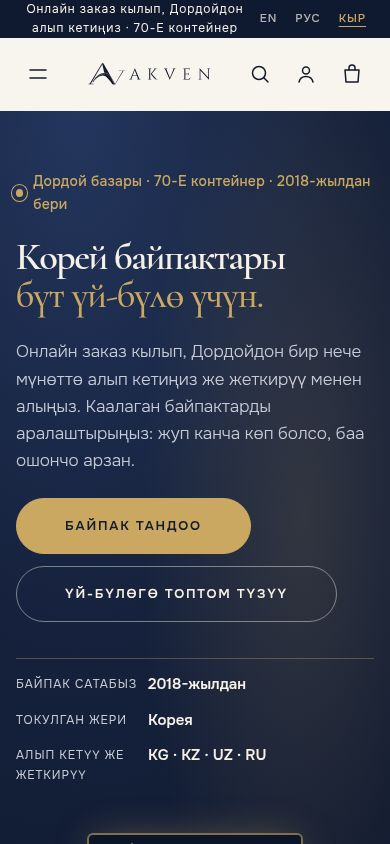
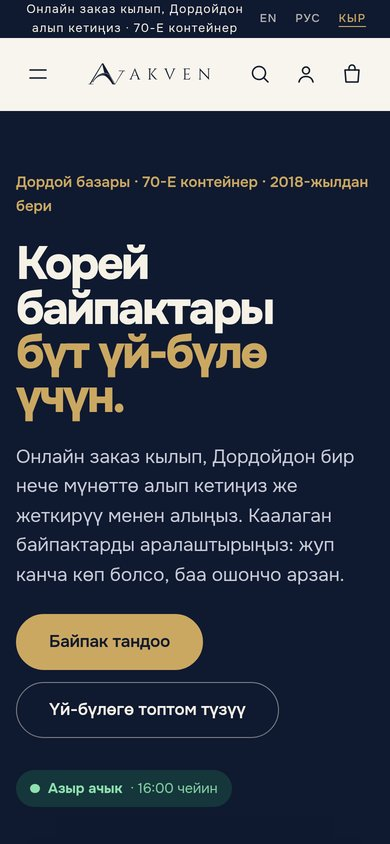
Update docs and screenshots

diff --git a/frontend/src/i18n/ky.ts b/frontend/src/i18n/ky.ts
@@ -36,7 +36,7 @@ const shop: Partial<Record<MessageKey, string>> = {
   "visit.container": "контейнер",
 
   "hero.title1": "Корей байпактары",
-  "hero.title2": "бүт үй-бүлө үчүн.",
+  "hero.title2": "бүт үй‑бүлө үчүн.",
   "hero.lead": "Онлайн заказ кылып, Дордойдон бир нече мүнөттө алып кетиңиз же жеткирүү менен алыңыз. Каалаган байпактарды аралаштырыңыз: заказ {n} жуптан башталат, жуп канча көп болсо, баа ошончо арзан.",
   "hero.leadOne": "Онлайн заказ кылып, Дордойдон бир нече мүнөттө алып кетиңиз же жеткирүү менен алыңыз. Каалаган байпактарды аралаштырыңыз: жуп канча көп болсо, баа ошончо арзан.",
 

diff --git a/docs/brand.md b/docs/brand.md
@@ -1,8 +1,9 @@
 # AKVEN brand and design system
 
-Elite and modern, in navy and gold: ivory pages keep the shop calm, navy carries the brand moments (the top bar, the
-hero, the quality panel, the footer) and gold is kept for detail and savings. Two Kyrgyz ornaments appear only where
-they mean something. The living reference is the style-guide page of the frontend (`/styleguide` with `npm run dev`);
+Plain and direct, after Wise and Bombas: one typeface with heavy, tight headings, flat blocks of colour, sentence-case
+labels and no decoration that does not carry meaning. Ivory pages keep the shop calm, navy carries the brand moments
+(the top bar, the hero, the footer) and gold is kept for the logo and savings. The Kyrgyz patterns live on the socks
+themselves (oimo, shyrdak) and in one band at the top of the footer. The living reference is the style-guide page of the frontend (`/styleguide` with `npm run dev`);
 screenshots are in [`docs/design/`](design/) and double as thesis figures.
 
 ## The mark
@@ -38,7 +39,7 @@ use the `<Logo>` component (`variant="full" | "stacked" | "mark"`), which takes 
 | `--ink`, `--ink-2`, `--ink-3` | navy ink `#121A2C`, slate greys | cream, warm greys | text and primary buttons |
 | `--accent` | gold `#CBA862` | `#D4B373` | the gold button, highlights, ornaments |
 | `--accent-ink` | dark gold `#7E5F1E` | gold | gold used as text: eyebrows, savings |
-| `--black`, `--black-deep`, `--on-black` | navy `#16223D`, `#0F1930`, cream | same | the top bar, hero, quality panel and footer, navy in both themes |
+| `--black`, `--black-deep`, `--on-black` | navy `#16223D`, `#0F1930`, cream | same | the top bar, hero, wholesale and route panels and footer, navy in both themes |
 | `--tint-1` to `--tint-6` | mist, oat, blush, sage, lilac, sand | dark versions | soft backdrops behind product photos, one per card in turn |
 | `--warning` | amber | light amber | "only a few left" |
 | `--ai` | lilac-purple | light lilac | the negotiator's proposal |
@@ -49,57 +50,62 @@ Changing a colour is done in `src/styles/tokens.css` only.
 
 ## Type
 
-Two families, both self-hosted with Latin, Cyrillic and Cyrillic Extended, so Russian and Kyrgyz (ң ө ү) render in the
-same faces as English:
+One family, **Onest**, self-hosted with Latin, Cyrillic and Cyrillic Extended, so Russian and Kyrgyz (ң ө ү) render in
+the same face as English:
 
-- **Cormorant Garamond** for headings: a refined serif, set large, with its italic in gold for emphasis
-  ("Korean socks *for the whole family*"). Numbers use lining figures so "70-E" and prices stand straight.
-- **Onest** for everything else: text, buttons, forms, prices (tabular figures so they line up).
+- **Headings** in Onest 800, set large and tight (letter-spacing about −0.04em), the way Wise sets its headlines.
+  Emphasis is colour (gold on navy, dark gold on ivory), never italics.
+- **Text, buttons, forms and prices** in Onest 400 to 700; prices use tabular figures so they line up.
 
-Buttons are pills with small spaced capitals; on hover a second colour sweeps in from the left and the label changes
-colour with it, so it keeps its contrast throughout. Fonts are tokens (`--font-display`, `--font-sans`, `--font-mono`).
+Buttons are pills with a sentence-case label; labels over headings are plain words, not spaced-out capitals. Fonts are
+tokens (`--font-display`, `--font-sans`, `--font-mono`), so a face can change in one place. An earlier version set
+headings in Cormorant Garamond with gold italics; it read as a luxury template rather than a family stall, and was
+dropped.
 
 ## Ornaments
 
-- **Oimo band**, a chain of rhombuses: the shelf the hero socks stand on, and the top edge of the footer.
-- **Kochkor muyuz**, ram's horns: the divider before the family's story, and the footer rule.
+- **Oimo band**, a chain of rhombuses: the top edge of the footer.
+- **The oimo and shyrdak patterns knitted into socks**: the Heritage line's designs, drawn on the socks themselves.
 
-- **The oimo band knitted into a sock**: the Heritage line's pattern, drawn on the socks themselves.
-
-The two page ornaments are in `frontend/src/brand/Ornaments.tsx` and take their colour from the surrounding text.
+The footer band is in `frontend/src/brand/Ornaments.tsx` and takes its colour from the surrounding text.
 
 ## The drawn sock
 
 Until real photos exist, drawn socks stand in for product photography. One drawing (`src/brand/sockDrawing.ts`)
 serves both the shop (`SockArt.tsx`) and the product images (`npm run art`), so a sock looks the same in the hero, on a
 card and on its page. It has knit texture, a ribbed cuff, a contrast heel and toe and soft shading, five heights
-(no-show to knee-high, all drawn on the same leg so they line up), fifteen patterns (rib, pinstripe, stripes,
-argyle, dots, hearts, snowflakes, oimo, bear, dino, compression, sparkle, ...) and extras: five toes, a grip sole, a
-lace frill, brushed yarn. Every product has two images: the sock, and the pair (or the open gift box). The second
+(no-show to knee-high, all drawn on the same leg so they line up), forty-one patterns (rib, pinstripe, stripes,
+argyle, checks, gingham, houndstooth, zigzag, fair isle, cable knit, camo, leopard, tie-dye, ombre, colour block,
+cherries, lemons, daisies, stars, moons, a night skyline, the Ala-Too mountains, the oimo and shyrdak ornaments, cat,
+bunny, bear and dino faces, paws, football, rainbow, pixel hearts, ...) and extras: five toes, a grip sole, a lace frill,
+brushed yarn, a pom-pom heel. The demo catalogue's second collection (`scripts/collection-2.mjs`) is one list that
+drives both its images (`npm run art`) and its database seed (`npm run seed`). Every product has two images: the sock, and the pair (or the open gift box). The second
 image shows when a card is hovered. Image URLs are data in the database, so photographs replace the drawings one by
 one.
 
 ## The home page
 
-Built around the family's real stall, container 70-E at Dordoi, so it could not belong to another shop:
+Ordered by the questions a visitor has: what does it cost, what is there, why here, and then the shop's own tools.
 
-| Scene | What it shows |
+| Section | What it shows |
 |---|---|
-| Container 70-E | The steel doors, embossed with the mark, swing open on a rail of socks that sway and lean away when the pointer passes; the container's number is stencilled on a plate on the frame |
-| Three ways to shop | Why the shop is online: families, shops (wholesale) and companies (gift boxes), each with its own path |
-| The family planner | Add each person, their shoe size and pairs; the sock size comes from the size chart and the price step from the ladder; the list can be sent in WhatsApp or Telegram |
-| The band | Every kind of sock the stall carries, moving slowly; it stops on hover |
+| The hero | A flat navy block with the headline and a live price calculator: pairs, for whom, the price of a pair today (the middle price of the real shelf), the bulk discount, the total and how many more pairs reach the next step |
+| The washing line | The drawn socks pegged on a rope across the page, drifting and swaying, leaning away when the pointer passes |
+| Shop by family member | Four flat colour tiles: men, women, kids, gift boxes |
 | The shelf | The newest socks, switchable between men, women, kids and gift boxes without leaving the page |
-| The fitting | A leg with a ruler; pick a height and the sock is pulled up to it |
-| The box | Tap socks into a box and watch the step reached on the real price ladder (`/api/pricing`) |
-| The calculator | "Ask for your price" the Dordoi way: the seller types the price and the shop's stamp checks it |
+| The facts | Big figures from the shop's own data (designs on the shelf, the top discount, since 2018, four countries) and the three ordering steps |
+| The family planner | Add each person, their shoe size and pairs; the sock size comes from the size chart and the price step from the ladder; the list can be sent in WhatsApp or Telegram |
+| Ask for your price | The negotiation the Dordoi way: the seller types the price and the shop's stamp checks it |
 | The gift calendar | Days to 23 February, 8 March, Nooruz, the first day of school and New Year, with the gift boxes |
-| The way to 70-E | A drawn route from the city to Dordoi-Junhai, passage 8, container 70-E, and every contact as a card that lights up in its channel's colour |
+| Shops and companies | Two blocks: wholesale by the case, and gift boxes for teams |
+| The family and the way to 70-E | The story, and a drawn route from the city to Dordoi-Junhai, passage 8, container 70-E, with every contact |
+
+The height fitting (a leg with a ruler; pick a height and the sock is pulled up to it) is on the size guide.
 
 ## Motion
 
-Sections slide in as they scroll into view, the container doors open on load, the socks sway, the road draws
-itself and the calculator types. Motion
+Sections slide in as they scroll into view, the socks on the line drift and sway, the road draws itself and the
+calculator types. Motion
 never fades text, so it keeps full contrast at every moment, and all of it stops for visitors who ask for less motion.
 
 ## Regenerating assets (from `frontend/`)
@@ -108,6 +114,7 @@ never fades text, so it keeps full contrast at every moment, and all of it stops
 |---|---|
 | `npm run logo` | `public/brand/*.svg` and `src/brand/logo.generated.ts` from `brand/mark-path.json` and Jost |
 | `npm run art` | placeholder product illustrations in `public/media/products/` (until real photography exists) |
+| `npm run seed` | the demo seed of the second collection, `backend/.../db/seed/V25__seed_collection_2.sql`, from the same list as its images |
 | `npm run icons` | PWA and favicon PNGs in `public/icons/` |
 | `npm run screenshots` | the style guide at phone, tablet and laptop widths, light and dark, into `docs/design/` |
 

diff --git a/README.md b/README.md
@@ -7,7 +7,7 @@ Nurmuhammed Kanybekov · supervised by Walid Guettala
 
 [![pipeline status](https://szofttech.inf.elte.hu/gnn/thesis-bachelor-2026-2027-01/nurmuhammed/badges/master/pipeline.svg)](https://szofttech.inf.elte.hu/gnn/thesis-bachelor-2026-2027-01/nurmuhammed/-/commits/master)
 
-![The AKVEN home page: container 70-E at Dordoi Bazaar](docs/design/readme-home.jpg)
+![The AKVEN home page: the headline and the live price calculator](docs/design/readme-home.jpg)
 
 ## Contents
 
@@ -81,8 +81,12 @@ super admin can repeat that run at any time.
 - **English, Russian and Kyrgyz**, prices in **US dollars or Kyrgyz som** (at the rate the owners set), light and
   dark, on phone, tablet and laptop. The site can be installed as an app
   (PWA), and the bag works offline.
+- **A price calculator on the home page:** say how many pairs and for whom, and see today's price of a pair, the bulk
+  discount, the total and how many more pairs reach the next step, from the shop's own prices.
 - **Collections:** a minimum order and a price ladder counted in pairs across the whole bag, with "add 4 more pairs
-  to save 5%" hints in the bag.
+  to save 5%" hints in the bag. Packs show their price per pair.
+- **About a hundred drawn designs** in the demo catalogue, from argyle and cable knit to the Kyrgyz oimo and shyrdak
+  patterns, cats, bunnies and football socks, until real photographs replace them.
 - **The family planner:** add each person and their shoe size; the sock size comes from the size chart, and the list
   can be sent to the shop in a message.
 - **Ask for your price:** a negotiation chat on every product page, in the customer's language. It remembers the
@@ -102,10 +106,11 @@ super admin can repeat that run at any time.
 
 - Products, sections, cuts, colours, sizes, photos, stock on the way and wholesale case sizes.
 - Orders, and a hand-over screen for the stall (pickup code plus the end of the customer's phone number).
-- A dashboard: offers per day, how often the limit stepped in, offers that became orders, best sellers.
+- A dashboard: paid orders, revenue and pairs sold, orders waiting at the stall, socks running out with what is on
+  the way; and for the assistant, offers per day, how often the limit stepped in, offers that became orders, best sellers.
 - The rule-based against AI comparison, for the evaluation chapter.
-- Owners only: the minimum order, the price ladder, the som rate, trusted customers, contacts, the stall and its
-  opening hours, and the size chart.
+- Owners only: the minimum order, the price ladder, the som rate, trusted customers (and a new password or switching
+  off for a customer account), contacts, the stall and its opening hours, and the size chart.
 - Super admin only: the team's accounts (add, disable, new password), which assistant answers the chat (the AI or the
   rules), a test box and the live comparison, and the full audit log.
 
@@ -123,7 +128,7 @@ docker compose up --build
 ```
 
 Then open **http://localhost:8081**. The first build takes a few minutes. The backend log ends with
-`Successfully applied 24 migrations … now at version v24` when everything is up.
+`Successfully applied 25 migrations … now at version v25` when everything is up.
 
 | Demo account | Email | Password | Can do |
 |---|---|---|---|
@@ -132,10 +137,12 @@ Then open **http://localhost:8081**. The first build takes a few minutes. The ba
 | Staff | `staff@akven.test` | `changeme-staff` | Products, stock and orders, but not prices |
 | Customer | Create one with "Sign in" → "Create an account" | | Shop, check out, see orders |
 
-These accounts exist only in demo mode. A short tour:
+These accounts exist only in demo mode, and are switched off as soon as you set up your own super admin in `.env`
+(`SUPER_ADMIN_EMAIL`, `SUPER_ADMIN_PASSWORD`), unless you also set `DEMO_ACCOUNTS=on`. A short tour:
 
 1. **Switch the language** in the top bar (EN · РУС · КЫР). The whole site follows.
-2. **Plan a family set** on the home page: change a shoe size and watch the sock size and the price step change.
+2. **Try the price calculator** at the top of the home page, then **plan a family set** further down: change a shoe
+   size and watch the sock size and the price step change.
 3. **Ask for a better price.** Sign in as a customer, open any product and type "50% off". The assistant answers, but
    the offer stays within the limit.
 4. **Fill the bag** with 20 pairs of mixed socks to reach the first collection step, then pay for a pickup order with
@@ -169,7 +176,7 @@ flowchart LR
 |---|---|
 | Client | React 18, TypeScript, Vite. One installable PWA for customers and the admin. English, Russian and Kyrgyz |
 | API | Spring Boot 3.3, Java 17. JWT with three roles (customer, staff, owner). One error format (RFC 7807). OpenAPI at `/swagger-ui/index.html` |
-| Data | PostgreSQL 16 with pgvector. 24 Flyway migrations; demo data only in the demo profile |
+| Data | PostgreSQL 16 with pgvector. 25 Flyway versions (schema, plus demo data only in the demo profile) |
 | Assistant | A `Negotiator` interface with two implementations: rule-based, and a language model (Gemini by default, any OpenAI-compatible API) that holds a conversation in three languages, with automatic fallback to the rules. The super admin switches between them at run time |
 | Delivery | Docker Compose. CI on GitLab (`.gitlab-ci.yml`) and GitHub Actions (six jobs) |
 
@@ -182,9 +189,9 @@ The brand (logo, colours, type, motion) is described in [`docs/brand.md`](docs/b
 
 | Check | Command | Result |
 |---|---|---|
-| Backend unit and integration tests, in-memory database | `cd backend && mvn verify` | 200 tests, **97% line coverage**; the build fails below 80% |
+| Backend unit and integration tests, in-memory database | `cd backend && mvn verify` | 209 tests, **97% line coverage**; the build fails below 80% |
 | Backend on real PostgreSQL | see [`docs/development.md`](docs/development.md) | 10 tests: migrations, constraints, the last-pair and double-payment races over real HTTP |
-| Frontend | `cd frontend && npm test && npm run build` | 131 tests, including colour-contrast checks and a check that every text exists in Russian and Kyrgyz |
+| Frontend | `cd frontend && npm test && npm run build` | 136 tests, including colour-contrast checks and a check that every text exists in Russian and Kyrgyz |
 | End to end, in a real browser | `cd frontend && npm run e2e` | 25 steps: the owner's, the customer's and the super admin's whole journey in three languages, with accessibility rules on every page |
 
 Safety properties that the tests demonstrate:
@@ -193,9 +200,12 @@ Safety properties that the tests demonstrate:
 - Prices are decided only on the server; the browser's numbers are never trusted.
 - The last pair is sold once, even when two people pay at the same moment, and a double click never charges twice.
 - The AI cannot state a price of its own in English, Russian or Kyrgyz; a reply that tries is replaced.
-- Login lockout after repeated failures, four roles, a disabled account or a new password ends its sessions at once,
-  an audit log of every change, and database constraints that refuse impossible values even if the application is
-  bypassed.
+- Login lockout after repeated failures, a sign-up limit per address, four roles, a disabled account or a new password
+  ends its sessions at once, an audit log of every change, and database constraints that refuse impossible values even
+  if the application is bypassed.
+- Each installation signs its logins with its own random key (no key is written in the repository), demo accounts are
+  switched off on a real installation, and the web server sends a strict Content-Security-Policy; CI checks the
+  headers on every push.
 
 ## Status
 
@@ -206,7 +216,7 @@ Safety properties that the tests demonstrate:
 | M3: final program, CI/CD, over 80% coverage | 10 November | Feature-complete; see the open points below |
 | M4: thesis draft | 22 November | In progress |
 
-Open points: real product photos, the certificate and story texts, a native speaker's check of the Russian and
+Open points: real product photos, the family's own story text, a native speaker's check of the Russian and
 Kyrgyz texts, and whether to add a small user study to the recorded live-model evaluation. Details
 are in [`docs/progress.md`](docs/progress.md); every requirement, where it is implemented and which test shows it, is
 in [`docs/traceability.md`](docs/traceability.md).

diff --git a/docs/api.md b/docs/api.md
@@ -24,7 +24,7 @@ Errors always use one format, RFC 7807 problem details (`{"title", "status", "de
 | Endpoint | Purpose |
 |---|---|
 | `GET /actuator/health` | Liveness check |
-| `POST /api/auth/register` | Customer self-registration |
+| `POST /api/auth/register` | Customer self-registration; at most 30 new accounts an hour from one address (`429` with `Retry-After`) |
 | `POST /api/auth/login` | Issues a JWT for an existing account |
 | `GET /api/auth/me` | Current authenticated user (requires a bearer token) |
 | `GET /api/products` | Catalog: filters (category, section, cut, collection, search, size, color, price, in stock), pagination, sort (newest, name, price) |
@@ -46,6 +46,7 @@ Errors always use one format, RFC 7807 problem details (`{"title", "status", "de
 | `POST /api/admin/orders/handover` | At the stall: `{code, phoneEnd}` hands over a paid pickup order; a wrong code and a wrong phone give the same 404 (STAFF / ADMIN) |
 | `POST /api/negotiate` | Chat message `{variantSku, message, quantity?, sessionId?, language?, currency?}` (`sessionId` continues a conversation about the same item; `language` is `en`, `ru` or `ky`; `currency` `KGS` makes the reply quote som, while the offer itself stays in dollars) → validated offer `{sessionId, reply, validatedDiscountPct, offerPrice, outcome}`, where `outcome` (`AS_OFFERED`, `LIMITED_BY_SHOP`, `LIST_PRICE`) says why (signed in; 20 messages per 10 minutes, then 429). Pass `sessionId` as `negotiationSessionId` in the bag |
 | `GET /api/admin/negotiations`, `GET /api/admin/negotiations/{id}` | Proposed against validated discount and the transcript; the detail also lists every `turn` with the assistant that answered (STAFF / ADMIN) |
+| `GET /api/admin/summary?days=30` | Dashboard: paid orders, revenue, pairs and average order in the period, paid orders still to hand over, and the options at or below the few-left threshold with incoming stock (STAFF / ADMIN) |
 | `GET /api/admin/negotiations/stats?days=30` | Dashboard: offers per day, how often the shop's limit stepped in, average discount, offers that became paid orders, best-selling items, lines by discount source (STAFF / ADMIN) |
 | `GET /api/admin/negotiations/evaluation` | Rule-based against AI assistant on 16 simulated customers, both through the PolicyValidator: discount given, would-buy rate, limit interventions, and final prices above the limit (always zero). The AI answers are a recorded live run, labelled `RECORDED`, each with the reply the customer would have read (STAFF / ADMIN) |
 | `GET`, `PUT /api/admin/assistant` | Which assistant answers the chat `{mode: "ai" \| "rules"}`, whether the model is configured, the model and service host (never the key), answers per assistant in the last 7 days (SUPER_ADMIN) |
@@ -53,6 +54,7 @@ Errors always use one format, RFC 7807 problem details (`{"title", "status", "de
 | `POST /api/admin/assistant/evaluation` | The same 16 customers against the live model, about one minute, labelled `LIVE` (SUPER_ADMIN) |
 | `GET`, `POST /api/admin/accounts`, `PUT /api/admin/accounts/{id}`, `PUT /api/admin/accounts/{id}/password` | The shop team's accounts: create an owner or staff account, change name, role and active, set a new password; super admin accounts cannot be changed through the API (SUPER_ADMIN) |
 | `GET /api/admin/customers?q=` | Customers by email, with `trusted` (ADMIN) |
+| `PUT /api/admin/customers/{id}/password`, `PUT /api/admin/customers/{id}/active` | Set a new password for a customer `{password}` (at least 8 characters), or switch a customer account off or on `{active}`; both end the customer's sessions and are audited. Team accounts are not reachable here (ADMIN) |
 | `GET /api/admin/audit` | The whole audit log, newest first, with the actor's email (SUPER_ADMIN) |
 | `POST /api/orders` | Checkout (signed in; `Idempotency-Key` header required; 402 declined, 409 not enough stock). A paid pickup order gets a six-digit `pickup.code`, shown only to the customer. Deliveries take `fulfillment.country` (`KG`, `KZ`, `UZ`, `RU`; `KG` when left out) |
 | `GET /api/orders`, `GET /api/orders/{id}`, `POST /api/orders/{id}/cancel` | The customer's own orders |

diff --git a/docs/progress.md b/docs/progress.md
@@ -41,7 +41,8 @@ Delivered ahead of the date, and well beyond the 30 to 50 percent asked for.
 | Admin in three languages | Done: every admin screen, the price chat and the shared messages in English, Russian and Kyrgyz, checked by a test that every key exists in all three |
 | The AI assistant | Done: a real conversation (every turn stored, V21), answers in the customer's language, the public price ladder and stock in the prompt, a number check in all three languages, one retry when the free plan is busy, and a run-time switch between the AI and the rules. Tested live against gemini-3.5-flash-lite |
 | Som prices, opening hours, quick view | Done (V23): the owners set the som rate and rounding, customers switch between dollars and som (the chat quotes som too); the stall's hours are times and days, so the site says "open now, until 16:00" in Bishkek time; a redesigned visit page; quick view on every sock card; the home page's opening scene fills the first screen, with new "shop by family member" and "how ordering works" sections. Sign-in through the Docker demo fixed (the proxy kept the port off the address, so every POST was refused) and now checked in CI |
-| Remaining gaps | Real product photos, the real certificate and story texts, a native speaker's check of the Russian and Kyrgyz texts |
+| Hardening and the final design round | Done (V25): every installation signs logins with its own random key (no key in the repository); demo accounts switch off on a real installation; sign-ups limited per address, with the visitor's address taken from the proxy; a strict Content-Security-Policy and other security headers, checked in CI; the shop listens on this computer only by default; owners can set a new password for a customer or switch a fake account off; `scripts/backup.sh`. Design: one typeface (heavy Onest headings), a price calculator in the hero, a washing line of socks, flat colour blocks, ten home sections instead of thirteen. 26 new knit patterns and 57 more demo products (100 in all), generated with their seed from one list. The dashboard adds sales, orders waiting at the stall and socks running out |
+| Remaining gaps | Real product photos, the family's own story text, a native speaker's check of the Russian and Kyrgyz texts |
 | Evaluation of the negotiator | Done: the comparison uses a recorded live run of gemini-3.5-flash-lite on the 16 simulated customers (`docs/evaluation/live-2026-10-11.json`); no final price went below the limit, and the AI gave smaller discounts than the rules (6% against 11% on average). The super admin can repeat it live. Still to agree with the supervisor: whether to add a small user study |
 
 ## Milestone 4: thesis draft (due 22 November)
@@ -50,5 +51,6 @@ Not started. The technical chapters can follow the structure of `architecture.md
 
 ## Known limitations
 
-The payment wallet is simulated and no money moves. There is no email, shipping or tax handling. The logo is the family's
+The payment wallet is simulated and no money moves; with a real provider the charge would move out of the checkout
+transaction (see `architecture.md`, Known limitations). There is no email, shipping or tax handling. The logo is the family's
 chosen design for now and may still change. The catalog cannot be browsed offline, only the bag can.

diff --git a/docs/user-guide.md b/docs/user-guide.md
@@ -21,7 +21,7 @@ who runs the system) can do everything an owner can, plus the accounts, the AI a
 | Handle orders: see what is waiting, mark it completed, or cancel and refund | Orders |
 | Read what the assistant offered customers, next to what the policy allowed | Negotiations |
 | Record stock **on the way**, its arrival date and the **pairs in a wholesale case** (the shop then says "arrives in about N days") | The product's page, each colour and size |
-| See offers per day, how often the limit stepped in, offers that became orders, best sellers, and the **rule-based against AI comparison** | Dashboard |
+| See **paid orders, revenue and pairs sold**, how many paid orders wait at the stall, **which socks are running out** (and what is on the way); and offers per day, how often the limit stepped in, offers that became orders, best sellers, and the **rule-based against AI comparison** | Dashboard |
 | **Hand over a pickup order** at the stall: the customer says the six-digit code and the last four digits of their phone | Hand over an order |
 | Set the **minimum order** in pairs, the minimum for trusted customers, when "only N left" appears, the **price ladder**, and the **som rate** (som for one dollar, and how som prices are rounded) (owners) | Pricing |
 | Enter **WhatsApp, phone, Telegram, Instagram, email and Facebook**, and the stall: market, passage, container, and the **opening hours** (opening and closing time, and the days it is open) (owners) | Contacts and the stall |

diff --git a/docs/development.md b/docs/development.md
@@ -81,7 +81,7 @@ sends a strict Content-Security-Policy (only this site's own scripts, styles, im
 |---|---|---|
 | Backend, in-memory database | `cd backend && mvn verify` | About 165 tests against H2 (no Postgres needed), plus a coverage check that fails the build below 80% line coverage. Report: `backend/target/site/jacoco/index.html` |
 | Backend, real PostgreSQL | `AKVEN_PG_URL=jdbc:postgresql://localhost:5432/akven_it mvn test -Dtest=PostgresIntegrationTest` | Needs an **empty** database. Checks Flyway, schema validation, database constraints, and the last-pair and double-click races over real HTTP |
-| Frontend | `cd frontend && npx tsc --noEmit && npm test && npm run build` | Type check, about 120 component and logic tests (including contrast and translation checks), production build |
+| Frontend | `cd frontend && npx tsc --noEmit && npm test && npm run build` | Type check, about 135 component and logic tests (including contrast and translation checks), production build |
 | Whole system in a browser | `cd frontend && npm run e2e` | Needs the backend running on a fresh demo database. Walks the owner's, the staff's and the customer's journeys in a real browser, switches the site to Russian and Kyrgyz, and runs accessibility rules on every public page and owner screen |
 
 Current backend line coverage is about 97% overall, and about 97% on the entity classes (the model layer).
